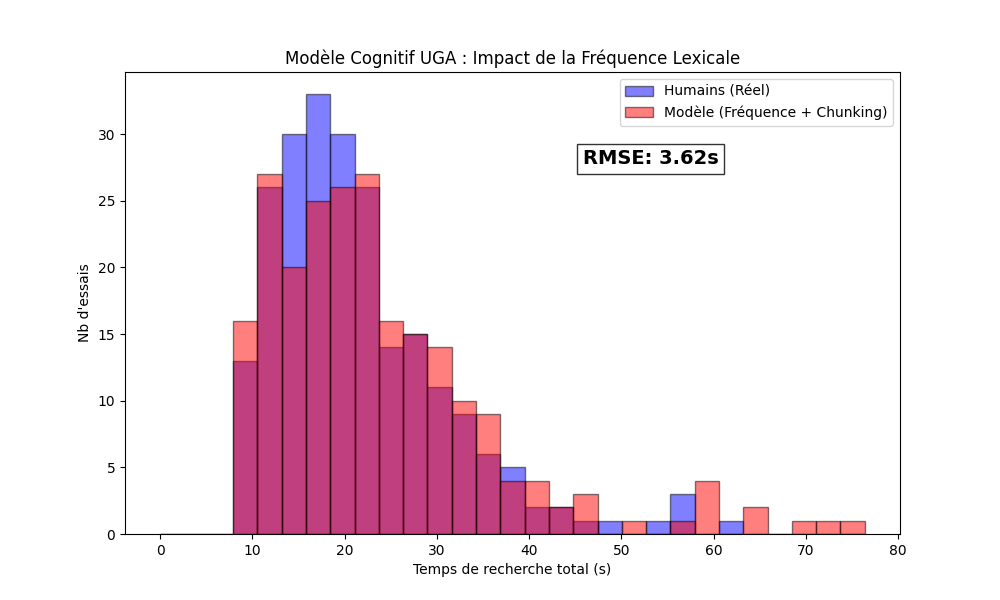
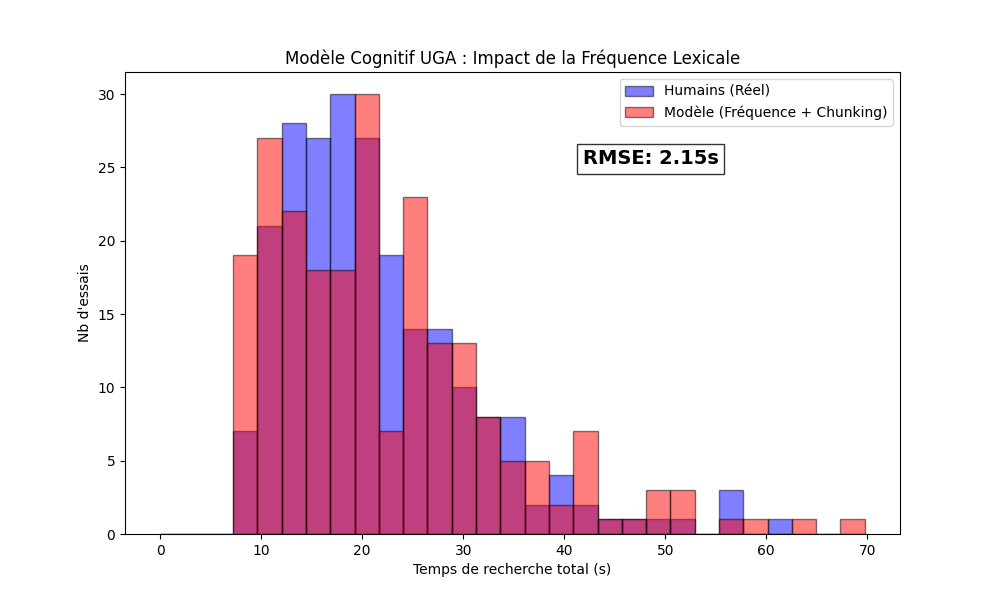
moo 2

diff --git a/expiremental_environment/analyse.py b/expiremental_environment/analyse.py
@@ -61,19 +61,19 @@ def modele_cognitif_frequence():
     max_time = max(max(human_times), max(model_times))
     bins = np.linspace(0, max_time, 30)
     
-    plt.hist(human_times, bins=bins, alpha=0.5, label='Humains (Réel)', color='blue', edgecolor='black')
-    plt.hist(model_times, bins=bins, alpha=0.5, label='Modèle (Fréquence + Chunking)', color='red', edgecolor='black')
+    # MODIFICATION : On ajoute density=True pour les deux histogrammes
+    plt.hist(human_times, bins=bins, alpha=0.5, label='Humains (Réel)', 
+             color='blue', edgecolor='black', density=True)
+    plt.hist(model_times, bins=bins, alpha=0.5, label='Modèle (Simulé)', 
+             color='red', edgecolor='black', density=True)
     
-    plt.text(max_time*0.6, plt.gca().get_ylim()[1]*0.8, f'RMSE: {rmse:.2f}s', 
-             fontsize=14, fontweight='bold', bbox=dict(facecolor='white', alpha=0.8))
-    
-    plt.title('Modèle Cognitif UGA : Impact de la Fréquence Lexicale')
-    plt.xlabel('Temps de recherche total (s)')
-    plt.ylabel('Nb d\'essais')
+    plt.title('Modèle Cognitif : Comparaison en Densité de Probabilité')
+    plt.xlabel('Temps de recherche total (s) [VD]')
+    plt.ylabel('Densité (Probabilité)') # On change le nom de l'axe Y
     plt.legend()
+    plt.grid(axis='y', linestyle='--', alpha=0.7)
     
-    plt.savefig(os.path.join(SCRIPT_DIR, 'comparaison_frequence.png'))
-    print(f"RMSE Final : {rmse:.2f}s")
+    plt.savefig('resultat_densite.png')
 
 if __name__ == "__main__":
     modele_cognitif_frequence()
